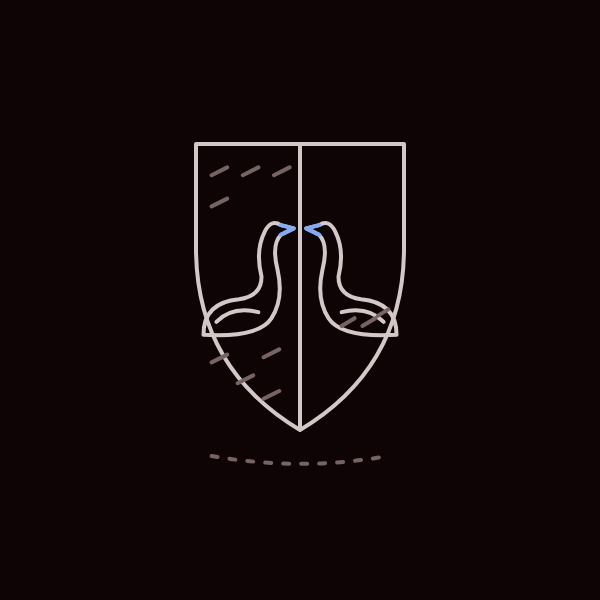
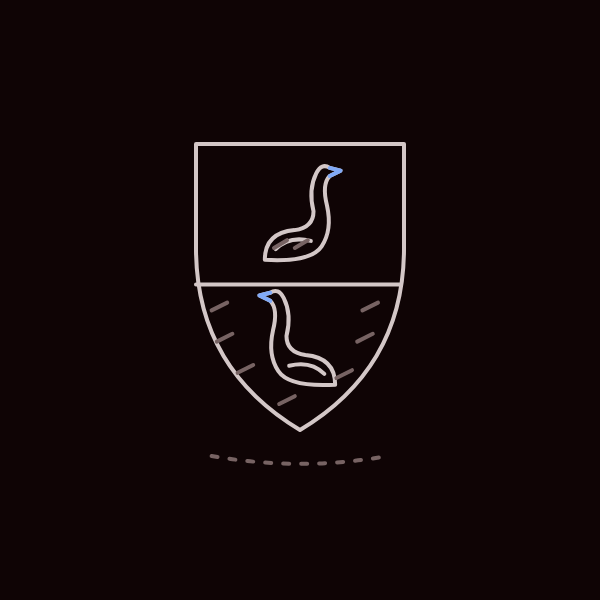
fix(art): address review of the court redrawings (#1289)
Tie the one-medium stage test to the table's source; split Balon Swann's
arms per fess; move Mandon's book death to chapter 141; drop the crossbow
bolt from Dontos's death and the snow from Thoros's.

Changed region(s): [[0.33, 0.24, 0.69, 0.72], [0.39, 0.6, 0.42, 0.66], [0.36, 0.33, 0.39, 0.36]]

diff --git a/src/data/series/game-of-thrones/art/court.ts b/src/data/series/game-of-thrones/art/court.ts
@@ -301,21 +301,21 @@ const SWAN: Stroke[] = [
   { d: 'M72 60 L80 62 L72 66', role: 'accent' },
 ]
 /**
- * Balon Swann: the arms of his house on a shield parted down the middle, a
- * white swan on the black half and a black swan on the white, face to face,
- * for the knight who rides in the Hand's tourney in Sansa II (chapter 30).
- * The book's alone. The black half and the black swan are hatched; the
- * accent is the beaks.
+ * Balon Swann: the arms of his house, per fess white and black, two swans
+ * counterchanged: a black swan on the white upper half and a white swan on
+ * the black lower half, turned the other way. For the knight who rides in
+ * the Hand's tourney in Sansa II (chapter 30). The book's alone. The black
+ * swan and the black half are hatched; the accent is the beaks.
  */
 const SWAN_SHIELD: Stroke[] = [
-  { d: 'M40 40 H120 V80 Q120 126 80 150 Q40 126 40 80 Z M80 40 V150' },
-  ...moved(SWAN, 'translate(28 34) scale(0.62)'),
-  ...moved(SWAN, 'translate(132 34) scale(-0.62 0.62)'),
+  { d: 'M40 40 H120 V80 Q120 126 80 150 Q40 126 40 80 Z M40 94 H119' },
+  ...moved(SWAN, 'translate(54 18) scale(0.52)'),
+  ...moved(SWAN, 'translate(106 66) scale(-0.52 0.52)'),
+  { d: 'M70 80 l5 -3 M78 80 l5 -3', role: 'ambient' },
   {
-    d: 'M46 52 l6 -3 M58 52 l6 -3 M70 52 l6 -3 M46 64 l6 -3 M46 124 l6 -3 M56 132 l6 -3 M66 138 l6 -3 M66 122 l6 -3',
+    d: 'M46 104 l6 -3 M48 116 l6 -3 M56 128 l6 -3 M104 104 l6 -3 M102 116 l6 -3 M94 130 l6 -3 M72 140 l6 -3',
     role: 'ambient',
   },
-  { d: 'M96 110 l5 -3 M104 110 l5 -3 M110 106 l4 -2.4', role: 'ambient' },
   shadow(80, 160, 34),
 ]
 
@@ -434,13 +434,13 @@ export const courtRedrawn: Redrawings = {
   ],
   'mandon-moore': [
     // The banner fallen into the river, its pole broken: he goes into the
-    // Blackwater and drowns, told in Tyrion XIV of A Clash of Kings
-    // (chapter 135). The show kills him in "Blackwater" (episode 19), the
-    // episode he opens in, where no stage can sit, so the stage is the
-    // book's (owner, as Mycah's).
+    // Blackwater, his drowning told by A Clash of Kings 67 (chapter 141), the
+    // first chapter known to confirm it. The show kills him in "Blackwater"
+    // (episode 19), the episode he opens in, where no stage can sit, so the
+    // stage is the book's (owner, as Mycah's).
     {
       episode: 19,
-      chapter: 135,
+      chapter: 141,
       source: 'chapter',
       value: [
         ...moved(STAG_BANNER, 'translate(6 108) scale(1 0.48)'),
@@ -523,19 +523,19 @@ export const courtRedrawn: Redrawings = {
     },
   ],
   'dontos-hollard': [
-    // The cask on its side by the water, the funnel gone and a crossbow
-    // bolt beside it: Littlefinger's men kill him in "Breaker of Chains"
-    // (episode 33), and in Sansa V of A Storm of Swords (chapter 205), the
-    // cask motif as the owner ruled.
+    // The cask on its side by the water, the funnel gone: Littlefinger's men
+    // kill him in "Breaker of Chains" (episode 33), and in Sansa V of A
+    // Storm of Swords (chapter 205). The accent moves to the cask's hoops.
     {
       episode: 33,
       chapter: 205,
       value: [
-        ...moved(CASK, 'translate(-4 10) rotate(-90 80 100) scale(0.86)'),
-        {
-          d: 'M98 150 H144 M144 150 l-6 -4 M144 150 l-6 4 M98 150 l-6 -4 M98 150 l-6 4 M104 150 l-6 -4 M104 150 l-6 4',
-          role: 'accent',
-        },
+        ...moved(
+          CASK.map((stroke, index) =>
+            index === 1 ? { ...stroke, role: 'accent' as const } : stroke,
+          ),
+          'translate(-4 10) rotate(-90 80 100) scale(0.86)',
+        ),
         { d: 'M10 154 H150', role: 'ambient' },
         { ...WATER, transform: 'translate(0 10)' },
       ],
@@ -632,8 +632,8 @@ export const courtRedrawn: Redrawings = {
         { d: 'M118 146 l5 -3 M124 158 l5 -3', role: 'ambient' },
       ],
     },
-    // The red robe under snow and his sword lying spent on it: he dies of
-    // the cold beyond the Wall in "Beyond the Wall" (episode 66). The
+    // The red robe dropped on bare ground and his sword lying spent before
+    // it: he dies beyond the Wall in "Beyond the Wall" (episode 66). The
     // show's alone: in the books he is alive, so chapter 344 only orders
     // it.
     {
@@ -644,26 +644,6 @@ export const courtRedrawn: Redrawings = {
         { d: ROBE, role: 'accent' },
         ROBE_FOLDS,
         { d: LONGSWORD, transform: 'translate(-8 30) rotate(-58 100 121)' },
-        {
-          d: dots([
-            [24, 132],
-            [40, 112],
-            [56, 120],
-            [66, 104],
-            [92, 108],
-            [100, 92],
-            [118, 112],
-            [134, 124],
-            [130, 100],
-            [36, 96],
-            [84, 140],
-          ]),
-          role: 'soft',
-        },
-        {
-          d: 'M16 136 Q32 122 52 126 Q66 116 82 122 M100 118 Q122 114 142 132',
-          role: 'soft',
-        },
         shadow(80, 160, 64),
       ],
     },

diff --git a/src/server/archive/thronesSeason1.test.ts b/src/server/archive/thronesSeason1.test.ts
@@ -334,7 +334,7 @@ const CHANGES: {
     value: 'deceased',
     source: 'episode',
   },
-  { id: 'mandon-moore', episode: 19, chapter: 135, value: 'deceased' },
+  { id: 'mandon-moore', episode: 19, chapter: 141, value: 'deceased' },
   {
     id: 'arys-oakheart',
     episode: 8,
@@ -1082,7 +1082,7 @@ const STAGES: {
   { id: 'kevan-lannister', episode: 60, chapter: 344 },
   // The King's Landing court redrawn from the drawing audit (#1289).
   { id: 'meryn-trant', episode: 50, chapter: 344, source: 'episode' },
-  { id: 'mandon-moore', episode: 19, chapter: 135, source: 'chapter' },
+  { id: 'mandon-moore', episode: 19, chapter: 141, source: 'chapter' },
   { id: 'arys-oakheart', episode: 8, chapter: 247, source: 'chapter' },
   { id: 'lancel-lannister', episode: 44, chapter: 256 },
   {
@@ -1137,26 +1137,70 @@ describe.each(
   },
 )
 
+/** A reader at the end of this medium, who has reached all of it. */
+function atTheEnd(unit: Unit): Reader {
+  return unit === 'episode' ?
+      reader('episode', archive.series.episodeCeiling)
+    : reader('chapter', archive.series.chapterCeiling)
+}
+
+/**
+ * The drawing a reader of this medium ends on: the last stage it tells, or
+ * the first drawing when it tells none.
+ */
+function endsOn(id: keyof typeof DRAWINGS, unit: Unit): unknown {
+  const owner = recordOf(id)
+  const told = (REDRAWINGS[id] ?? []).filter(
+    (stage) => (owner.source ?? stage.source ?? unit) === unit,
+  )
+
+  return told.at(-1)?.value ?? DRAWINGS[id]
+}
+
+/**
+ * Whether this stage is a new look: one that does not draw the first
+ * drawing again (Darry rebuilt), which every reader sees anyway.
+ */
+function isNewLook(id: keyof typeof DRAWINGS, index: number): boolean {
+  return (
+    JSON.stringify(REDRAWINGS[id]?.[index]?.value)
+    !== JSON.stringify(DRAWINGS[id])
+  )
+}
+
+/** The medium a stage is told in: its record's, else its own. */
+function mediumOf(
+  id: keyof typeof DRAWINGS,
+  index: number,
+): 'chapter' | 'episode' | undefined {
+  return REDRAWINGS[id]?.[index]?.source ?? recordOf(id).source
+}
+
+/** Whether these strokes are this stage's drawing. */
+function shows(
+  strokes: unknown,
+  id: keyof typeof DRAWINGS,
+  index: number,
+): boolean {
+  return (
+    JSON.stringify(strokes) === JSON.stringify(REDRAWINGS[id]?.[index]?.value)
+  )
+}
+
 describe('the stages one medium alone tells', () => {
   // A reader of the other medium who has reached its end sees the last
   // stage their medium tells (Lancel's Sparrow star, before the show alone
-  // kills him), or the first drawing when it tells none.
+  // kills him), or the first drawing when it tells none. The stage's medium
+  // is held to the table's, so a stage that lost its `source` fails here.
   it.each(STAGES.filter(({ source }) => source !== undefined))(
     'never redraws $id for a reader of the other medium',
-    ({ id, source }) => {
+    ({ id, source, stage: index = 0 }) => {
       const other: Unit = source === 'chapter' ? 'episode' : 'chapter'
-      const owner = recordOf(id)
-      const last =
-        other === 'episode' ?
-          reader('episode', archive.series.episodeCeiling)
-        : reader('chapter', archive.series.chapterCeiling)
-      const seen = (REDRAWINGS[id] ?? []).filter(
-        (stage) => (owner.source ?? stage.source ?? other) === other,
-      )
+      const drawn = drawingOf(recordOf(id), atTheEnd(other)).strokes
 
-      expect(drawingOf(owner, last).strokes).toStrictEqual(
-        seen.at(-1)?.value ?? DRAWINGS[id],
-      )
+      expect(mediumOf(id, index)).toBe(source)
+      expect(isNewLook(id, index) && shows(drawn, id, index)).toBe(false)
+      expect(drawn).toStrictEqual(endsOn(id, other))
     },
   )
 })

diff --git a/src/data/series/game-of-thrones/records/season-1.ts b/src/data/series/game-of-thrones/records/season-1.ts
@@ -5072,9 +5072,8 @@ export const season1: ThronesSaga = {
       status: [
         { episode: 19, chapter: 52, source: 'chapter', value: 'alive' },
         // Drowned in the Blackwater: on screen in "Blackwater" (episode 19),
-        // his threshold, and told in Tyrion XIV of A Clash of Kings (chapter
-        // 135).
-        { episode: 19, chapter: 135, value: 'deceased' },
+        // his threshold, and confirmed by A Clash of Kings 67 (chapter 141).
+        { episode: 19, chapter: 141, value: 'deceased' },
       ],
       affiliation: [
         {
